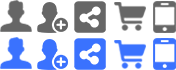
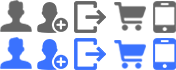
[zhoupeng]图标

Changed region(s): [[0.3977, 0.5429, 0.625, 1.0], [0.3977, 0.0, 0.625, 0.4857]]

diff --git a/Public/Core/css/oneplus.css b/Public/Core/css/oneplus.css
@@ -1528,8 +1528,8 @@ font-size: 0;
 a .icon-login:hover{background-position:0px -37px;width:31px;height:31px}
 .icon-zhuce{background-position:-37px 0px;width:31px;height:31px}
 a .icon-zhuce:hover{background-position:-37px -37px;width:31px;height:31px}
-.icon-logout{background-position:-115px 0px;width:31px;height:31px}
-a .icon-logout:hover{background-position:-115px -37px;width:31px;height:31px}
+.icon-logout{background-position:-73px 0px;width:31px;height:31px}
+a .icon-logout:hover{background-position:-73px -37px;width:31px;height:31px}
 .icon-cart{background-position:-115px 0px;width:31px;height:31px}
 a .icon-cart:hover{background-position:-115px -37px;width:31px;height:31px}
 .icon-app{background-position:-146px -2px;width:31px;height:31px}

diff --git a/Application/Admin/View/default/Public/success.html b/Application/Admin/View/default/Public/success.html
@@ -24,7 +24,7 @@ body{ background: #30333F; font-family: '微软雅黑'; color: #fff; font-size: 
     vertical-align: middle;
     cursor: pointer;
     border: 0 none;
-    background-color: #308B04;
+    background-color: #3d72fe;
     padding: 10px 20px;
     color: #fff;
     font-weight: bold;
@@ -33,7 +33,7 @@ body{ background: #30333F; font-family: '微软雅黑'; color: #fff; font-size: 
 }
 
 #btn-stop:hover,#href:hover{
-    background-color: #43BD08;
+    background-color: #7097fe;
 }
 </style>
 </head>

diff --git a/Public/Usercenter/css/center.css b/Public/Usercenter/css/center.css
@@ -54,11 +54,11 @@
   margin-right: 1em;
 }
 .ucenter_tab li a:hover {
-  border-bottom: 3px solid #03ae87;
+  border-bottom: 3px solid #3d72fe;
 }
 .ucenter_tab .active a {
   color: #666 !important;
-  border-bottom: 3px solid #03ae87;
+  border-bottom: 3px solid #3d72fe;
 }
 .expandinfo-noticeinfo {
   margin-left: 30px;

diff --git a/Public/Admin/css/module.css b/Public/Admin/css/module.css
@@ -476,10 +476,10 @@ label.textarea ~ .check-tips {
 .page a:hover
  {
     text-decoration: none;
-    background-color: #387C0B;
+    background-color: #7097fe;
 }
 .page .current {
-	border-top: 1px solid #387C0B;
+	border-top: 1px solid #3d72fe;
 }
 .page .next,
 .page .prev {

diff --git a/Runtime/Cache/Admin/60d8e8b619e55e2f82bb9e778cb7affd.php b/Runtime/Cache/Admin/60d8e8b619e55e2f82bb9e778cb7affd.php
@@ -24,7 +24,7 @@ body{ background: #30333F; font-family: '微软雅黑'; color: #fff; font-size: 
     vertical-align: middle;
     cursor: pointer;
     border: 0 none;
-    background-color: #308B04;
+    background-color: #3d72fe;
     padding: 10px 20px;
     color: #fff;
     font-weight: bold;
@@ -33,7 +33,7 @@ body{ background: #30333F; font-family: '微软雅黑'; color: #fff; font-size: 
 }
 
 #btn-stop:hover,#href:hover{
-    background-color: #43BD08;
+    background-color: #7097fe;
 }
 </style>
 </head>

diff --git a/Runtime/Temp/865e8245bc0c525aa4a48bfb433d7c3e.php b/Runtime/Temp/865e8245bc0c525aa4a48bfb433d7c3e.php
@@ -1,3 +1,3 @@
 <?php
-//000000000000a:1:{s:2:"u1";s:5:"admin";}
+//000000000000a:3:{s:2:"u1";s:5:"admin";s:2:"u2";s:9:"韩老师";s:3:"u17";s:7:"用户1";}
 ?>
